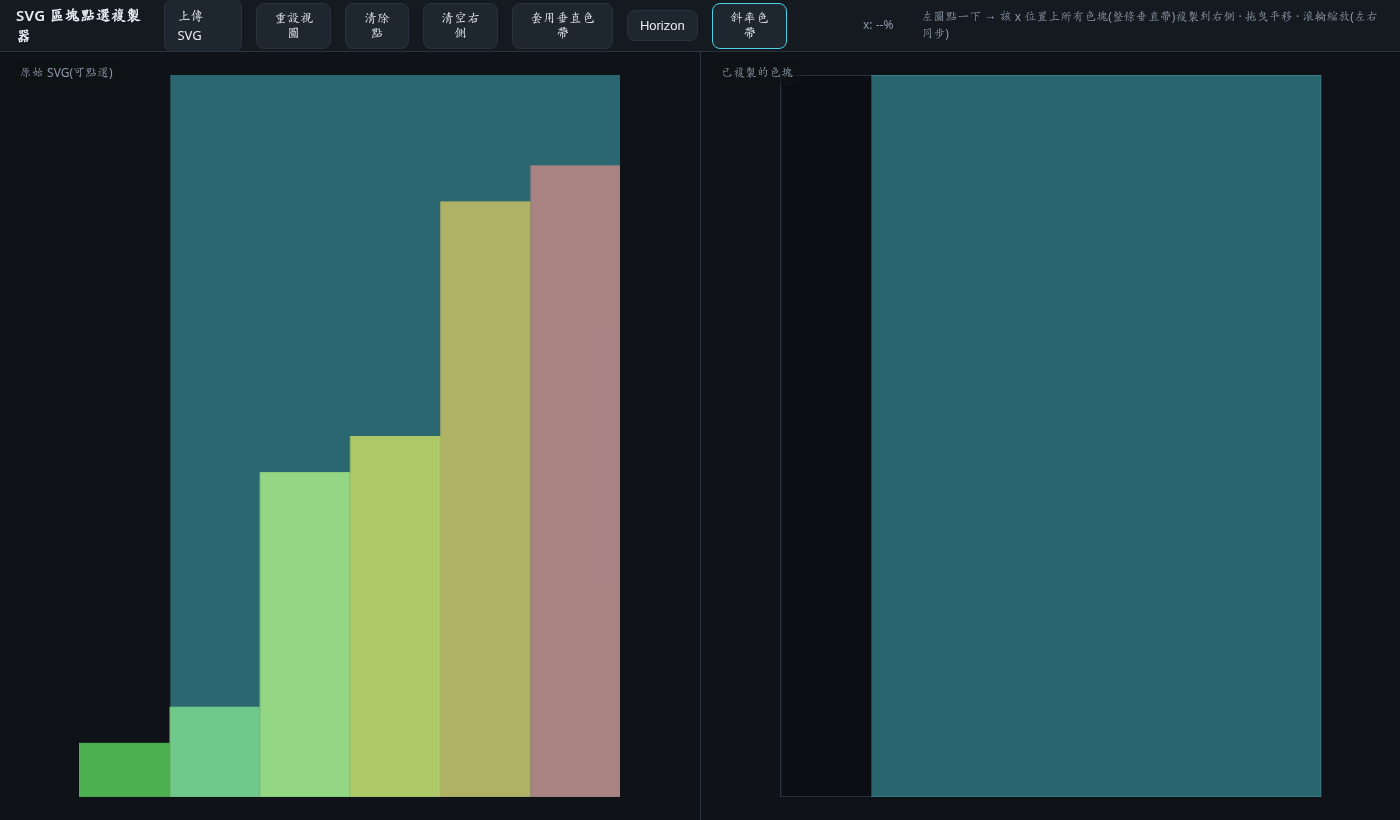
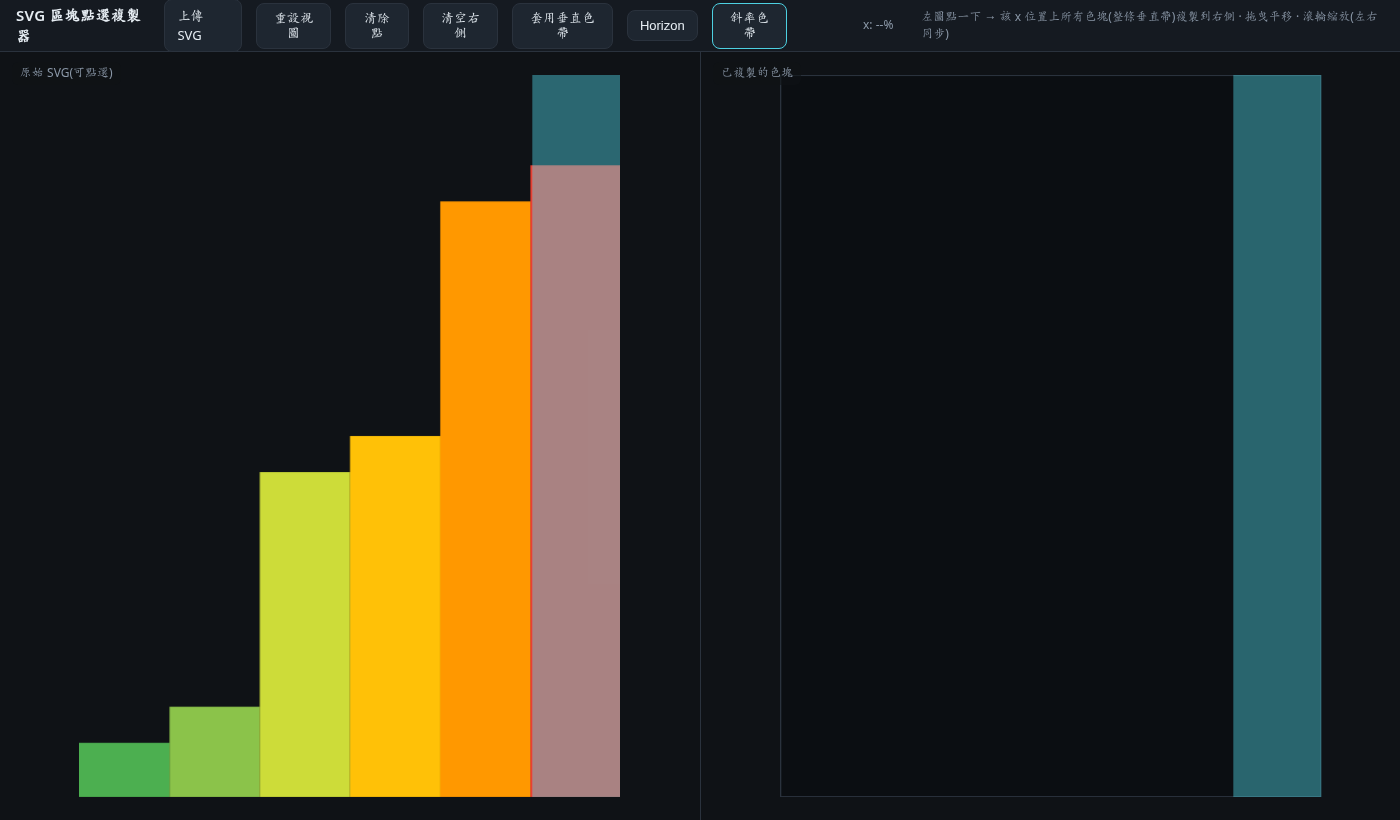
vcp: highlight only local-maximum plateaus (peaks), not every upper side
A plateau with a HIGHER flat neighbour across a 90° step is not the peak
there, so it must not be coloured even if it also has a lower neighbour on
its other side (reported white-circle case: "非最高"). flatHighlights now
requires higher-than-some AND lower-than-none — a local maximum. Every
separate peak still qualifies, so "not only the global max" holds; a
monotonic staircase collapses to its single top peak.

Add a peak-only regression (low→middle→high: only the top is lit) and
update the staircase test (five blocks → one peak). ex.svg highlights
39→14.

diff --git a/vcp/horizon-slope-peak-only.puppeteer.test.js b/vcp/horizon-slope-peak-only.puppeteer.test.js
@@ -1,0 +1,95 @@
+// Regression for the reported case (Screenshot_20261012_022440): the white
+// circle marks a plateau that must NOT be coloured, because the plateau to its
+// right is HIGHER — so the circled one is not the highest ("非最高") and falls
+// outside the colouring condition.
+//
+// A plateau is coloured only if it is a LOCAL MAXIMUM: higher than at least one
+// flat neighbour across a 90° step AND lower than none. Having a lower neighbour
+// on one side is not enough — a higher neighbour on the other side disqualifies
+// it. Only genuine peaks are coloured (but every separate peak is, not just the
+// global highest).
+const assert = require("node:assert/strict");
+const { createServer } = require("node:http");
+const { readFile } = require("node:fs/promises");
+const path = require("node:path");
+const puppeteer = require("puppeteer-core");
+
+const repositoryRoot = path.resolve(__dirname, "..");
+
+function staticServer() {
+  const server = createServer(async (request, response) => {
+    try {
+      const requestPath = new URL(request.url, "http://localhost").pathname;
+      const filename = path.resolve(repositoryRoot, `.${requestPath}`);
+      if (!filename.startsWith(`${repositoryRoot}${path.sep}`)) throw new Error("outside repository");
+      const body = await readFile(filename);
+      const type = filename.endsWith(".html") ? "text/html; charset=utf-8" : "application/octet-stream";
+      response.writeHead(200, { "content-type": type });
+      response.end(body);
+    } catch (_) {
+      if (!response.headersSent) response.writeHead(404);
+      response.end();
+    }
+  });
+  return new Promise(resolve => server.listen(0, "127.0.0.1", () => resolve(server)));
+}
+
+// Three plateaus rising left→right: LOW (y=250, cols 0–100), MIDDLE (y=150,
+// cols 100–200) and HIGH (y=50, cols 200–300). The MIDDLE plateau is higher
+// than LOW but lower than HIGH — it is the "white circle" case.
+const risingSvg = `<svg xmlns="http://www.w3.org/2000/svg" width="300" height="400" viewBox="0 0 300 400">`
+  + `<polygon points="0,250 100,250 100,150 200,150 200,50 300,50 300,400 0,400" fill="#8bc34a"/></svg>`;
+const LOW_PCT = (50 / 300) * 100;     // ~16.7%
+const MIDDLE_PCT = (150 / 300) * 100; // 50% — the circled plateau
+const HIGH_PCT = (250 / 300) * 100;   // ~83.3% — the peak
+
+async function main() {
+  const server = await staticServer();
+  const { port } = server.address();
+  const browser = await puppeteer.launch({
+    executablePath: process.env.CHROME_PATH || "/usr/bin/google-chrome",
+    headless: true,
+    args: ["--no-sandbox", "--disable-setuid-sandbox"]
+  });
+  try {
+    const page = await browser.newPage();
+    const pageErrors = [];
+    page.on("pageerror", error => pageErrors.push(error.message));
+    await page.goto(`http://127.0.0.1:${port}/vcp/index.html`, { waitUntil: "networkidle0" });
+    await page.waitForFunction(() => typeof window.d3 !== "undefined" && typeof window.Plotly !== "undefined");
+
+    // ---- 1. pure function: only the HIGH plateau is a local maximum ----------
+    const highlights = await page.evaluate(() => {
+      const skyline = [];
+      const push = (n, y) => { for (let k = 0; k < n; k++) skyline.push({ x: skyline.length, y }); };
+      push(100, 250); push(100, 150); push(100, 50);   // low → middle → high
+      const { regions } = horizonRegions(skyline, { window: 4, flatEps: 0.1, jumpMax: 6 });
+      return flatHighlights(regions).map(h => h.y);
+    });
+    assert.deepEqual(highlights, [50], "only the peak (y=50) is highlighted; the middle plateau has a higher neighbour, so it is excluded");
+
+    // ---- 2. live DOM: middle plateau stays dark ------------------------------
+    await page.evaluate(markup => loadSvgText(markup), risingSvg);
+    await page.click("#slopeband");
+    await page.waitForFunction(() => document.querySelector("#lbands").childElementCount > 0);
+    const flat = await page.evaluate(() => [...document.querySelectorAll("#lbands > div.flat")]
+      .map(d => ({ left: parseFloat(d.style.left), width: parseFloat(d.style.width) })));
+    const lit = pct => flat.some(b => pct >= b.left && pct <= b.left + b.width);
+
+    assert.equal(flat.length, 1, "exactly one plateau is highlighted");
+    assert.ok(lit(HIGH_PCT), "the peak (~83%) is highlighted");
+    assert.ok(!lit(MIDDLE_PCT), "the middle plateau (~50%) is NOT highlighted — it has a higher neighbour (the reported issue)");
+    assert.ok(!lit(LOW_PCT), "the low plateau (~17%) is not highlighted");
+
+    assert.deepEqual(pageErrors, [], "the browser reported no runtime errors");
+    console.log("Horizon peak-only regression: OK (a plateau with a higher neighbour is not coloured)");
+  } finally {
+    await browser.close();
+    await new Promise(resolve => server.close(resolve));
+  }
+}
+
+main().catch(error => {
+  console.error(error);
+  process.exitCode = 1;
+});

diff --git a/vcp/horizon-slope-step-heights.puppeteer.test.js b/vcp/horizon-slope-step-heights.puppeteer.test.js
@@ -76,18 +76,18 @@ async function main() {
     }, TOPS, BLOCK);
     assert.deepEqual(staircaseSegments, [], "every vertical step is a discontinuity — 20px and 130px alike — so nothing is sloped");
 
-    // every plateau that is the higher side of an ascending flat–flat step is
-    // highlighted (not just the global tallest) — i.e. all blocks except the
-    // single lowest (top=370).
+    // a monotonic staircase has exactly one local-maximum plateau (the top): an
+    // intermediate block has a HIGHER block to its right, so it is not a peak and
+    // is not highlighted.
     const highlights = await page.evaluate((tops, block) => {
       const points = [];
       tops.forEach(top => { for (let k = 0; k < block; k++) points.push({ x: points.length, y: top }); });
       const { regions } = horizonRegions(points, { window: 4, flatEps: 0.1, jumpMax: 6 });
       return flatHighlights(regions).map(h => h.y).sort((a, b) => a - b);
     }, TOPS, BLOCK);
-    assert.deepEqual(highlights, [50, 70, 200, 220, 350], "every plateau above the lowest is highlighted, not only the tallest");
+    assert.deepEqual(highlights, [50], "only the peak (top=50) is highlighted; blocks with a higher neighbour are not");
 
-    // ---- 2. live DOM: steps give no slope bands; all-but-lowest plateaus lit --
+    // ---- 2. live DOM: steps give no slope bands; only the peak plateau lit ----
     await page.evaluate(markup => loadSvgText(markup), stairSvg);
     await page.click("#slopeband");
     await page.waitForFunction(() => document.querySelector("#lbands").childElementCount > 0);
@@ -97,9 +97,10 @@ async function main() {
     }));
     const litStair = pct => stair.flat.some(b => pct >= b.left && pct <= b.left + b.width);
     assert.equal(stair.slope, 0, "a staircase of five 90° steps produces no slope bands");
-    assert.equal(stair.flat.length, 5, "all plateaus except the lowest are highlighted");
-    assert.ok(!litStair((25 / 300) * 100), "the lowest block (~8%) is not highlighted");
+    assert.equal(stair.flat.length, 1, "only the peak plateau is highlighted");
     assert.ok(litStair((275 / 300) * 100), "the tallest block (~92%) is highlighted");
+    assert.ok(!litStair((175 / 300) * 100), "an intermediate block (~58%) is NOT highlighted — it has a higher neighbour");
+    assert.ok(!litStair((25 / 300) * 100), "the lowest block (~8%) is not highlighted");
 
     // ---- 3. the classifier still marks a real slope -------------------------
     await page.evaluate(markup => loadSvgText(markup), rampSvg);

diff --git a/vcp/index.html b/vcp/index.html
@@ -223,17 +223,19 @@ function horizonRegions(points, options = {}) {
   if (cur !== null) close(klass.length - 1);
   return { regions, last };
 }
-/* Every plateau that sits on the upper (higher) side of a flat–flat 90° step.
-   Two plateaus adjacent in the region list are separated only by a step/gap, so
-   a LOWER flat neighbour (larger screen-y) means this plateau is the taller side
-   of a step. Higher = topmost skyline = smaller screen-y (y grows downward);
-   flip the comparison to pick lower sides instead. Returns ALL such plateaus,
-   not just the global highest. */
+/* Every plateau that is a LOCAL MAXIMUM across its flat–flat 90° steps: higher
+   than at least one adjacent flat plateau and lower than none. Adjacent flat
+   regions are separated only by a step edge; "higher" = topmost skyline = smaller
+   screen-y (y grows downward). A plateau that has a higher flat neighbour is not
+   the peak at that step, so it is NOT coloured — but every separate peak is, not
+   just the single global highest. (Flip both comparisons to pick valleys.) */
 function flatHighlights(regions) {
   return regions.filter((r, i) => {
     if (r.type !== "flat") return false;
     const neighbours = [regions[i - 1], regions[i + 1]].filter(nb => nb && nb.type === "flat");
-    return neighbours.some(nb => nb.y > r.y);       // a lower flat across the step ⇒ r is the higher side
+    const higherThanSome = neighbours.some(nb => nb.y > r.y);   // a lower flat across a step ⇒ r is the higher side here
+    const lowerThanSome = neighbours.some(nb => nb.y < r.y);    // a higher flat across a step ⇒ r is NOT the peak
+    return higherThanSome && !lowerThanSome;
   });
 }
 function bandColor(i) {
